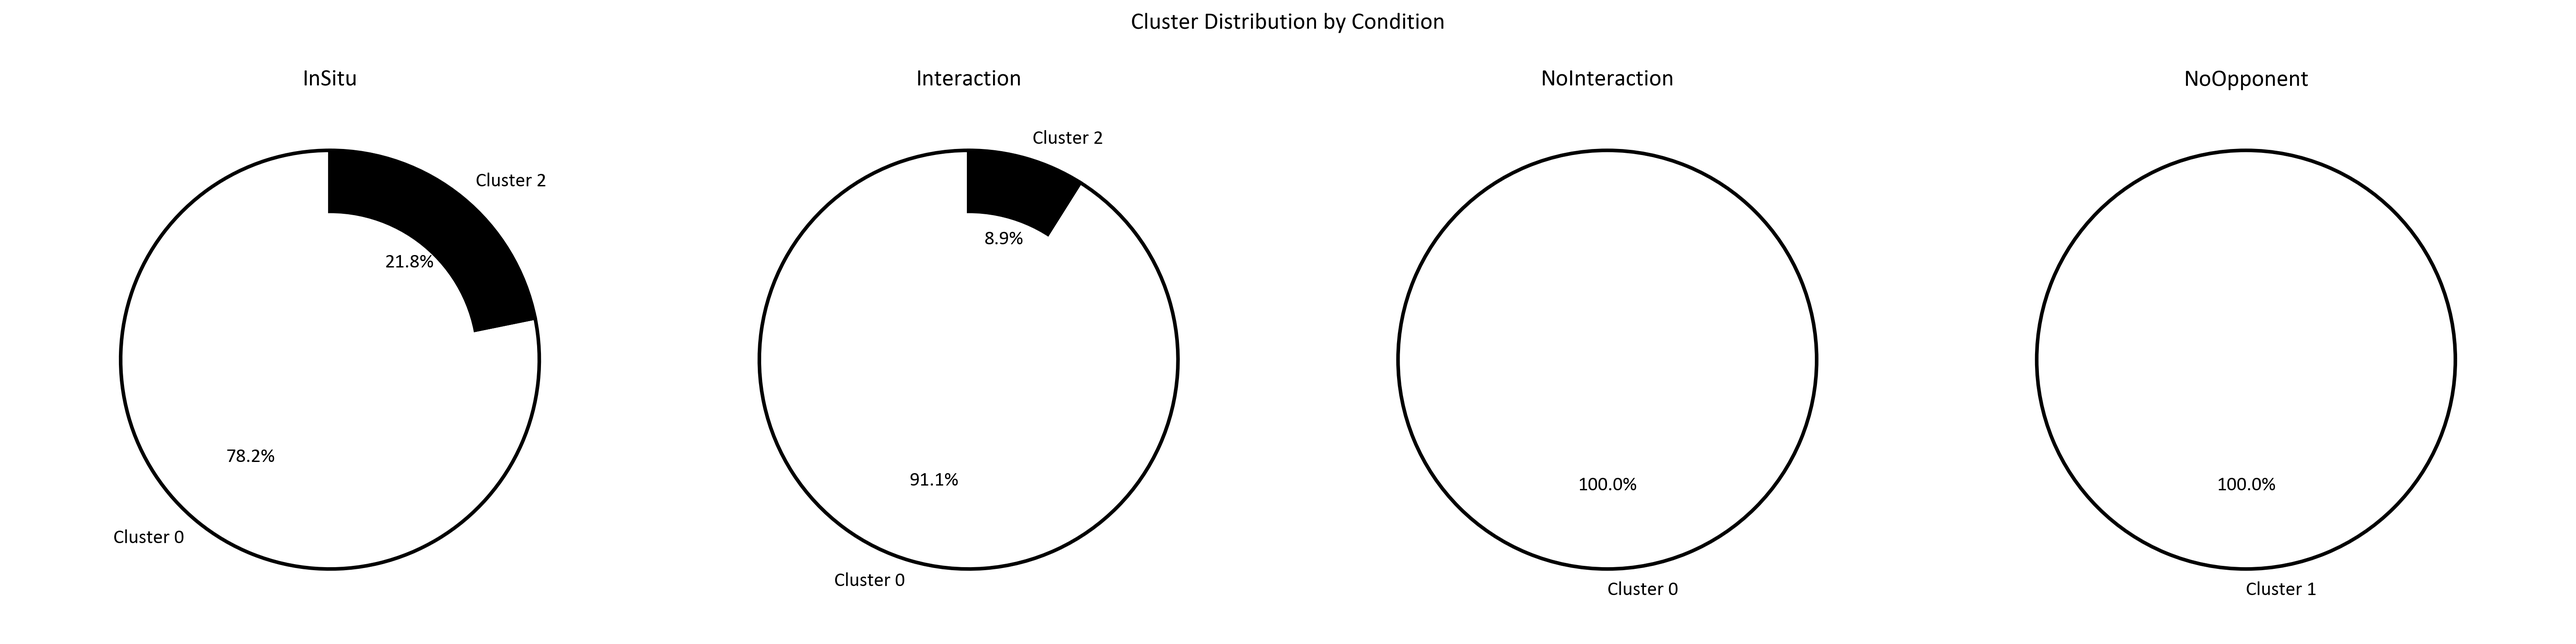
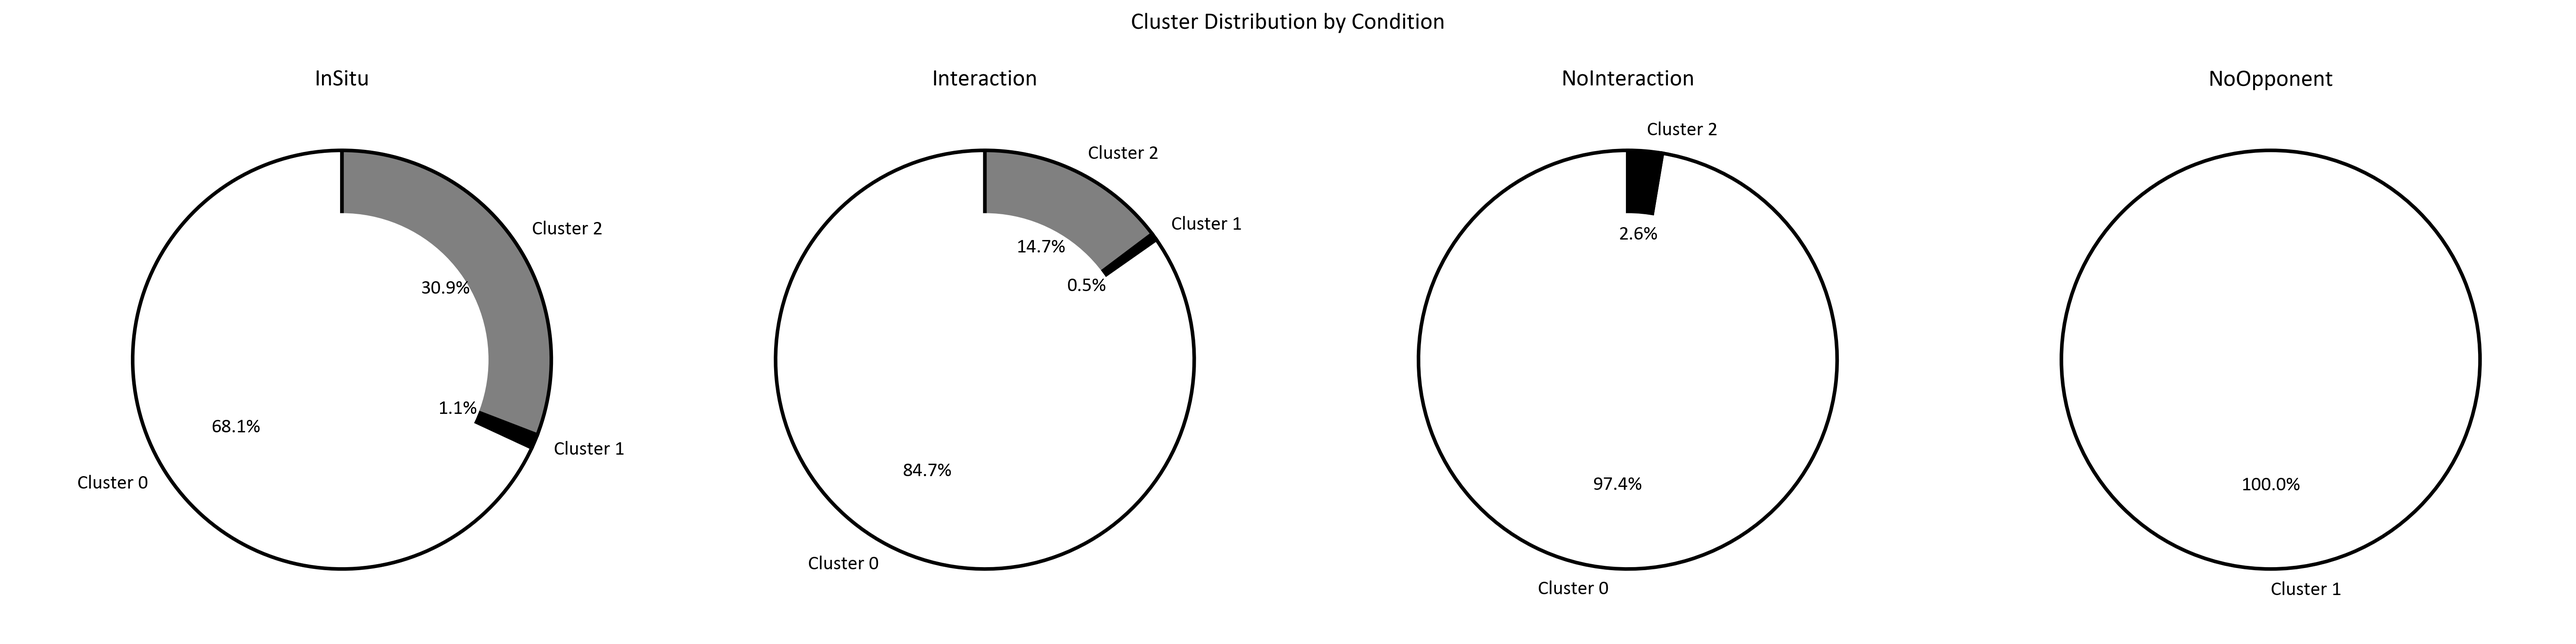
plotting per condition

diff --git a/Python.Analysis/src/cluster_analysis.py b/Python.Analysis/src/cluster_analysis.py
@@ -5,14 +5,15 @@ import matplotlib.pyplot as plt
 from matplotlib.patches import Circle
 from sklearn.cluster import KMeans
 from src.domain import Persistence, Trial, Condition
+import pandas as pd  # Import pandas for tabular data handling
 
 def perform_cluster_analysis(trials: List[Trial], n_clusters: int) -> None:
     trial_features = np.array([
         [
             trial.distance_between_last_touch_and_pass(),
-            # trial.timing_between_last_touch_and_pass(),
+            trial.timing_between_last_touch_and_pass(),
             trial.average_interpersonal_distance(),
-            # trial.interpersonal_distance_at_pass_time(),
+            trial.interpersonal_distance_at_pass_time(),
             trial.number_lateral_changes_of_direction()
         ]
         for trial in trials
@@ -26,8 +27,11 @@ def perform_cluster_analysis(trials: List[Trial], n_clusters: int) -> None:
     for trial, label in zip(trials, labels):
         trial.cluster_label = label
 
-    # Calculate and print percentage of trials in each cluster per condition
+    # Prepare to collect averages for each condition
     conditions = [Condition.IN_SITU, Condition.INTERACTION, Condition.NO_INTERACTION, Condition.NO_OPPONENT]
+    averages = {condition.value: [] for condition in conditions}
+
+    # Calculate and print percentage of trials in each cluster per condition
     print("\nPercentage of trials in each cluster by condition:")
     
     for condition in conditions:
@@ -38,6 +42,44 @@ def perform_cluster_analysis(trials: List[Trial], n_clusters: int) -> None:
         for i in range(n_clusters):
             cluster_percentage = np.sum(np.array(condition_labels) == i) / len(condition_labels) * 100 if condition_labels else 0
             print(f'Cluster {i}: {cluster_percentage:.2f}%')
+
+        # Calculate averages for all features per condition
+        if condition_trials:
+            distances = np.array([trial.distance_between_last_touch_and_pass() for trial in condition_trials])
+            average_distance = np.mean(distances) if len(distances) > 0 else 0
+            
+            timings = np.array([trial.timing_between_last_touch_and_pass() for trial in condition_trials])
+            average_timing = np.mean(timings) if len(timings) > 0 else 0
+            
+            interpersonal_distances = np.array([trial.average_interpersonal_distance() for trial in condition_trials])
+            average_interpersonal_distance = np.mean(interpersonal_distances) if len(interpersonal_distances) > 0 else 0
+            
+            distances_at_pass_time = np.array([trial.interpersonal_distance_at_pass_time() for trial in condition_trials])
+            average_distance_at_pass_time = np.mean(distances_at_pass_time) if len(distances_at_pass_time) > 0 else 0
+            
+            lateral_changes = np.array([trial.number_lateral_changes_of_direction() for trial in condition_trials])
+            average_lateral_changes = np.mean(lateral_changes) if len(lateral_changes) > 0 else 0
+            
+            # Store averages in the dictionary
+            averages[condition.value] = [
+                average_distance,
+                average_timing,
+                average_interpersonal_distance,
+                average_distance_at_pass_time,
+                average_lateral_changes
+            ]
+
+    # Create a DataFrame to tabulate the averages with conditions as headers
+    averages_df = pd.DataFrame(averages, index=[
+        'Average Distance Between Last Touch and Pass',
+        'Average Timing Between Last Touch and Pass',
+        'Average Interpersonal Distance',
+        'Average Interpersonal Distance at Pass Time',
+        'Average Number of Lateral Changes of Direction'
+    ])
+
+    print("\nAverages of Features per Condition:")
+    print(averages_df)
 
     # Calculate and print average distribution of trials in each cluster
     average_distribution = np.array([np.sum(labels == i) for i in range(n_clusters)]) / len(labels) * 100
@@ -50,9 +92,9 @@ def plot_elbow_method(trials: List[Trial], max_clusters: int, persistence: Persi
     trial_features = np.array([
         [
             trial.distance_between_last_touch_and_pass(),
-            # trial.timing_between_last_touch_and_pass(),
+            trial.timing_between_last_touch_and_pass(),
             trial.average_interpersonal_distance(),
-            # trial.interpersonal_distance_at_pass_time(),
+            trial.interpersonal_distance_at_pass_time(),
             trial.number_lateral_changes_of_direction()
         ]
         for trial in trials

diff --git a/Python.Analysis/main.py b/Python.Analysis/main.py
@@ -1,5 +1,7 @@
 from pathlib import Path
 
+import pandas as pd
+
 
 from src.persistence import ApaStyledPersistence
 from src.reader import TrialReader
@@ -24,6 +26,9 @@ if __name__ == '__main__':
         single_column_width_inches=3,
         grayscale=False
     )
+
+    pd.set_option('display.max_columns', None)  # Show all columns
+    pd.set_option('display.width', 1000)  # Set a wider width
 
     trials = TrialReader.read_trials(data_path)
 
